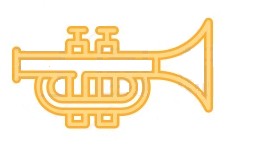
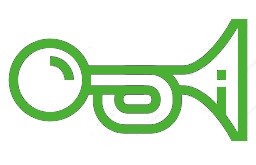
support horn direction.

diff --git a/qcustomhorn.cpp b/qcustomhorn.cpp
@@ -45,8 +45,8 @@ void QCustomHorn::paintEvent(QPaintEvent *)
 
     drawBackground(&painter);
 
-    drawHorn(&painter);
-
+//    drawHorn(&painter);
+    drawVehicleHorn(&painter);
 
 //    drawTitle(&painter);
 
@@ -139,6 +139,40 @@ void QCustomHorn::drawHorn(QPainter *painter)
     painter->restore();
 }
 
+void QCustomHorn::drawVehicleHorn(QPainter *painter)
+{
+    int width = this->width();
+    int height = this->height();
+    int side = qMin(width, height);
+    QRectF target(-128.0, -83.0, 256.0, 165.0);
+
+    painter->save();
+
+    if (m_horn_active_)
+    {
+        QImage image(":/resource/image/horn_on.png");
+        if (m_dir_ == HORNDIR_LEFT)
+        {
+            painter->drawImage(target, image.mirrored(true, false));
+        } else {
+            painter->drawImage(target, image);
+        }
+
+    } else {
+        QImage image(":/resource/image/horn_off.png");
+        if (m_dir_ == HORNDIR_LEFT)
+        {
+            painter->drawImage(target, image.mirrored(true, false));
+        } else {
+            painter->drawImage(target, image);
+        }
+
+    }
+
+
+    painter->restore();
+}
+
 void QCustomHorn::setHornState(const bool value)
 {
     if (this->m_horn_active_ != value)
@@ -148,3 +182,11 @@ void QCustomHorn::setHornState(const bool value)
     }
 }
 
+void QCustomHorn::setHornDir(const HornDir value)
+{
+    if (this->m_dir_ != value)
+    {
+        this->m_dir_ = value;
+        this->update();
+    }
+}

diff --git a/qcustomhorn.h b/qcustomhorn.h
@@ -26,6 +26,12 @@ class QCustomHorn : public QWidget
 {
     Q_OBJECT
 public:
+    enum HornDir
+    {
+        HORNDIR_LEFT  = 0,
+        HORNDIR_RIGHT = 1,
+    };
+
     explicit QCustomHorn(QWidget *parent = nullptr);
     ~QCustomHorn();
 
@@ -38,18 +44,20 @@ protected:
 
     void drawBackground(QPainter *painter);
     void drawHorn(QPainter *painter);
+    void drawVehicleHorn(QPainter *painter);
 private:
     QColor m_active_color_;
     QColor m_unactive_color_;
     // false:unactive true:active
     bool m_horn_active_{false};
-
+    HornDir m_dir_{HORNDIR_LEFT};
     QColor m_background_color_;
 
 signals:
 
 public slots:
     void setHornState(const bool value);
+    void setHornDir(const HornDir value);
 };
 
 #endif // QCUSTOMHORN_H

diff --git a/mainwindow.cpp b/mainwindow.cpp
@@ -6,6 +6,9 @@ MainWindow::MainWindow(QWidget *parent) :
     ui(new Ui::MainWindow)
 {
     ui->setupUi(this);
+
+    ui->cbx_direction->addItem("朝左", QVariant("LEFT"));
+    ui->cbx_direction->addItem("朝右", QVariant("RIGHT"));
 }
 
 MainWindow::~MainWindow()
@@ -20,4 +23,16 @@ void MainWindow::on_cbx_horn_state_stateChanged(int arg1)
     state = arg1 ? true : false;
 
     ui->widget->setHornState(state);
+}
+
+void MainWindow::on_cbx_direction_currentIndexChanged(const QString &arg1)
+{
+    QString str = ui->cbx_direction->currentData().toString();
+    if (str == "LEFT")
+    {
+        ui->widget->setHornDir(QCustomHorn::HORNDIR_LEFT);
+    } else {
+        ui->widget->setHornDir(QCustomHorn::HORNDIR_RIGHT);
+    }
+
 }

diff --git a/mainwindow.h b/mainwindow.h
@@ -18,6 +18,8 @@ public:
 private slots:
     void on_cbx_horn_state_stateChanged(int arg1);
 
+    void on_cbx_direction_currentIndexChanged(const QString &arg1);
+
 private:
     Ui::MainWindow *ui;
 };
